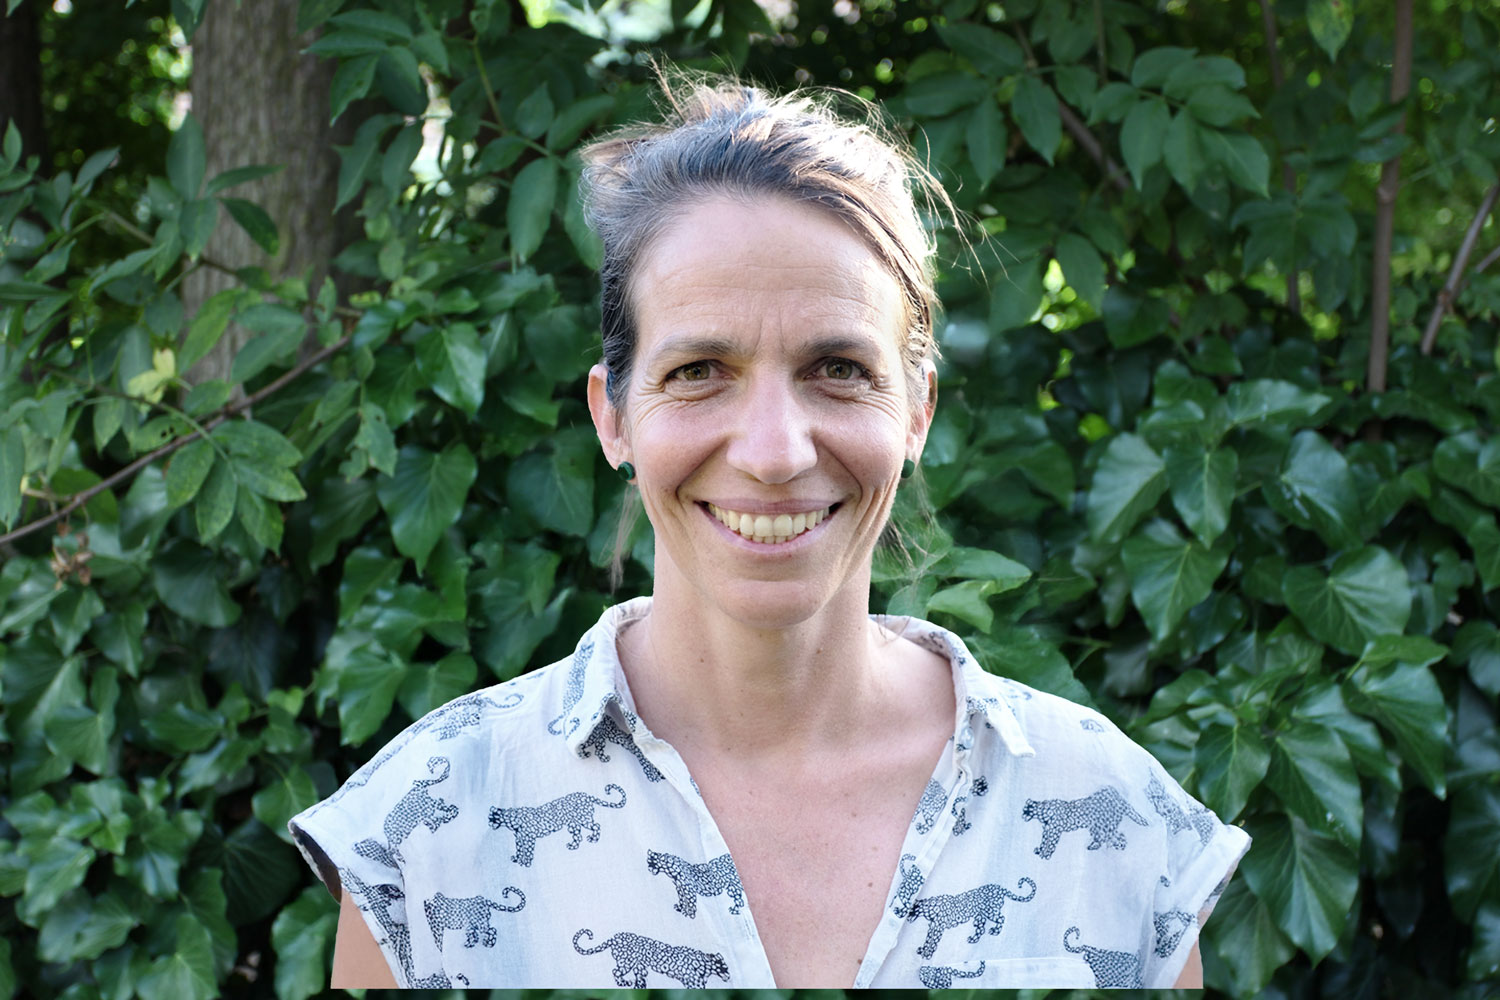
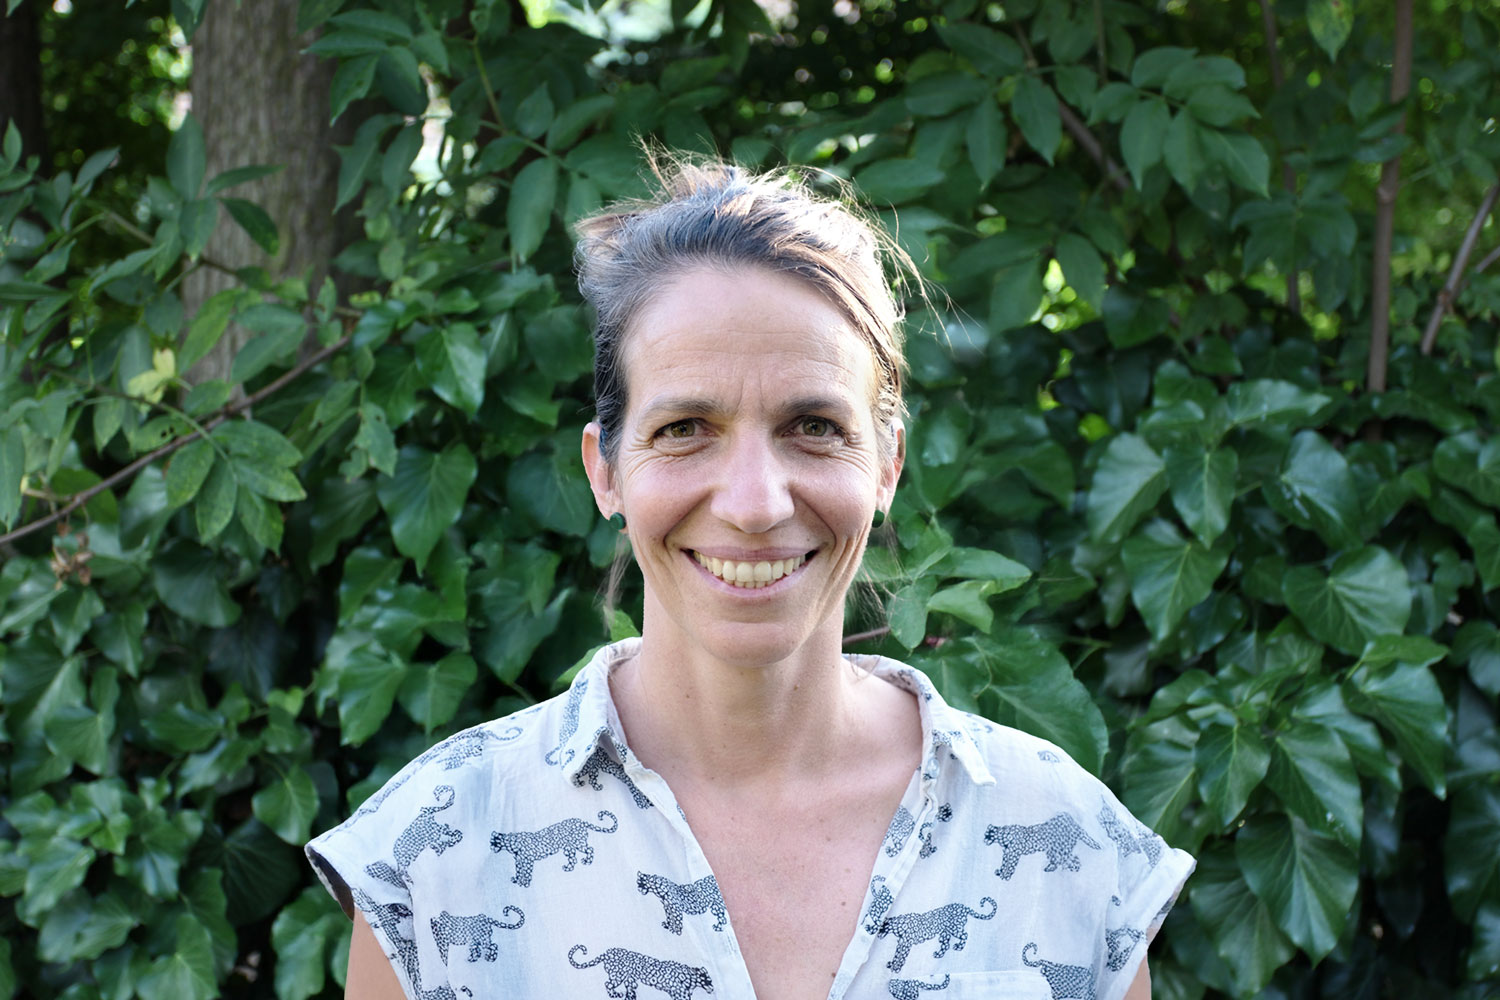
csapat

Changed region(s): [[0.184, 0.031, 0.8587, 1.0]]

diff --git a/src/pages/Psychologists.tsx b/src/pages/Psychologists.tsx
@@ -62,12 +62,12 @@ const Psychologists = () => {
       <Navbar />
       <main>
         <HeroSection 
-          title="Our Psychologists"
-          subtitle="Meet our team of experienced, compassionate professionals dedicated to supporting your mental health journey."
-          imageSrc="https://images.unsplash.com/photo-1553877522-43269d4ea984?ixlib=rb-1.2.1&auto=format&fit=crop&w=1650&q=80"
-          primaryButtonText="Book an Appointment"
+          title="Szakemberei"
+          subtitle="Ismerje meg pszichológusainkat, akik elkötelezettek az ön és családja mentális egészségének támogatásában."
+          imageSrc="/csapat.jpg"
+          primaryButtonText="Foglaljon Időpontot"
           primaryButtonLink="/booking"
-          secondaryButtonText="View Services"
+          secondaryButtonText="Szolgáltatásaink"
           secondaryButtonLink="/services"
         />
 